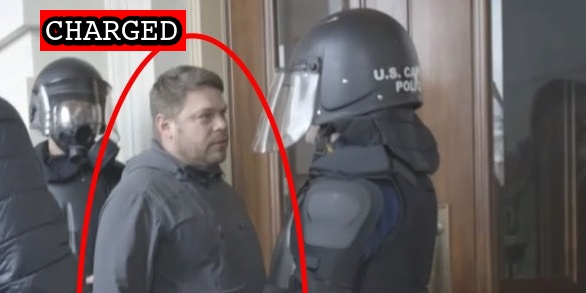
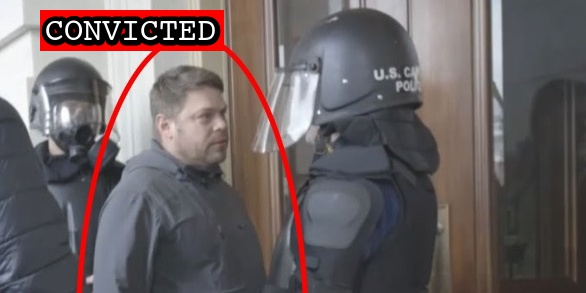
Latest import

Changed region(s): [[0.0922, 0.0307, 0.3993, 0.1843]]

diff --git a/commands/suspect-import.ts b/commands/suspect-import.ts
@@ -485,6 +485,7 @@ const linkType = (description: string, lastName?: string) => {
     case /statement of offense/.test(description):
     case /.*statement_of_offense.pdf/.test(description):
     case /Statement of Ofense/.test(description):
+    case /Staterment of Offense /.test(description):
       return "Statement of Offense";
     case /Indictment/.test(description):
     case /indictment/.test(description):

diff --git a/docs/_suspects/narayana-rheiner.md b/docs/_suspects/narayana-rheiner.md
@@ -4,16 +4,16 @@ lastName: Rheiner
 hashtag: LynyrdSinner
 aka:
 residence: Maryland
-status: Indicted
+status: Convicted
 date: 2022-03-01
 charged: 2022-03-01
 indicted: 2022-03-31
-convicted:
+convicted: 2022-11-04
 acquitted:
 sentenced:
 dismissed:
 deceased:
-plea_hearing: 2022-11-14
+plea_hearing: 2022-11-04
 trial_date:
 trial_type:
 sentencing:
@@ -40,9 +40,16 @@ caseName: USA v. RHEINER
 judge: Dabney L. Friedrich
 videos:
 charges:
+  - code: 18 USC § 231(a)(3)
+    title: Obstruction of Law Enforcement During Civil Disorder
+    url: https://www.law.cornell.edu/uscode/text/18/231
+    felony: true
 sentence:
 ---
+
 - [News Report](https://www.baltimoresun.com/news/crime/bs-md-cr-fbi-arrests-jan-6-insurrection-20220303-m2kfndbt4zb27cotowncld5eca-story.html)
 - [Complaint](https://www.justice.gov/usao-dc/case-multi-defendant/file/1479781/download)
 - [Statement of Facts](https://www.justice.gov/usao-dc/case-multi-defendant/file/1479786/download)
-- [Indictment](https://extremism.gwu.edu/sites/g/files/zaxdzs2191/f/Narayana%20Rheiner%20Indictment.pdf)
+- [Indictment](https://www.justice.gov/usao-dc/case-multi-defendant/file/1549586/download)
+- [Plea Agreement](https://www.justice.gov/usao-dc/case-multi-defendant/file/1549591/download)
+- [Statement of Offense](https://www.justice.gov/usao-dc/case-multi-defendant/file/1549596/download)

diff --git a/docs/_suspects/samuel-rodriguez.md b/docs/_suspects/samuel-rodriguez.md
@@ -4,11 +4,11 @@ lastName: Rodriguez
 hashtag:
 aka:
 residence: Pennsylvania
-status: Charged
+status: Convicted
 date: 2022-07-06
 charged: 2022-07-06
 indicted:
-convicted:
+convicted: 2022-11-04
 acquitted:
 sentenced:
 dismissed:
@@ -40,8 +40,16 @@ caseName: USA v. FONTANEZ RODRIGUEZ
 judge: Jia M. Cobb
 videos:
 charges:
+- code: 40 USC § 5104(e)(2)(G)
+  title: Parading, demonstrating or picketing in a Capitol building
+  url: https://www.law.cornell.edu/uscode/text/40/5104
+  felony: false
 sentence:
 ---
 - [News Report](https://www.mcall.com/news/breaking/mc-nws-lehigh-valley-man-arrest-jan-6-riot-20220724-3m2q2nkx4rgxne3ozyljiec4ra-story.html)
 - [Complaint](https://www.justice.gov/usao-dc/case-multi-defendant/file/1521511/download)
 - [Statement of Facts](https://www.justice.gov/usao-dc/case-multi-defendant/file/1521516/download)
+- [Information](https://www.justice.gov/usao-dc/case-multi-defendant/file/1549621/download)
+- [Plea Agreement](https://www.justice.gov/usao-dc/case-multi-defendant/file/1549611/download)
+- [DOJ Press Release](https://www.justice.gov/usao-dc/case-multi-defendant/file/1549616/download)
+- [Statement of Offense](https://www.justice.gov/usao-dc/case-multi-defendant/file/1549616/download)

diff --git a/docs/_suspects/chad-heathcote.md b/docs/_suspects/chad-heathcote.md
@@ -4,11 +4,11 @@ lastName: Heathcote
 hashtag:
 aka:
 residence: Iowa
-status: Charged
+status: Convicted
 date: 2022-05-03
 charged: 2022-05-03
 indicted:
-convicted:
+convicted: 2022-11-04
 acquitted:
 sentenced:
 dismissed:
@@ -40,8 +40,15 @@ caseName: USA v. HEATHCOTE
 judge: Carl J. Nichols
 videos:
 charges:
+- code: 40 USC § 5104(e)(2)(G)
+  title: Parading, demonstrating or picketing in a Capitol building
+  url: https://www.law.cornell.edu/uscode/text/40/5104
+  felony: false
 sentence:
 ---
 - [News Report](https://www.desmoinesregister.com/story/news/crime-and-courts/2022/05/05/chad-heathcote-adel-iowa-charged-two-offenses-january-6-2021-us-capitol-riot-washington-dc/9655987002/)
 - [Complaint](https://www.justice.gov/usao-dc/case-multi-defendant/file/1499041/download)
 - [Statement of Facts](https://www.justice.gov/usao-dc/case-multi-defendant/file/1499046/download)
+- [Information](https://www.justice.gov/usao-dc/case-multi-defendant/file/1549546/download)
+- [Plea Agreement](https://www.justice.gov/usao-dc/case-multi-defendant/file/1549551/download)
+- [Statement of Offense](https://www.justice.gov/usao-dc/case-multi-defendant/file/1549556/download)
